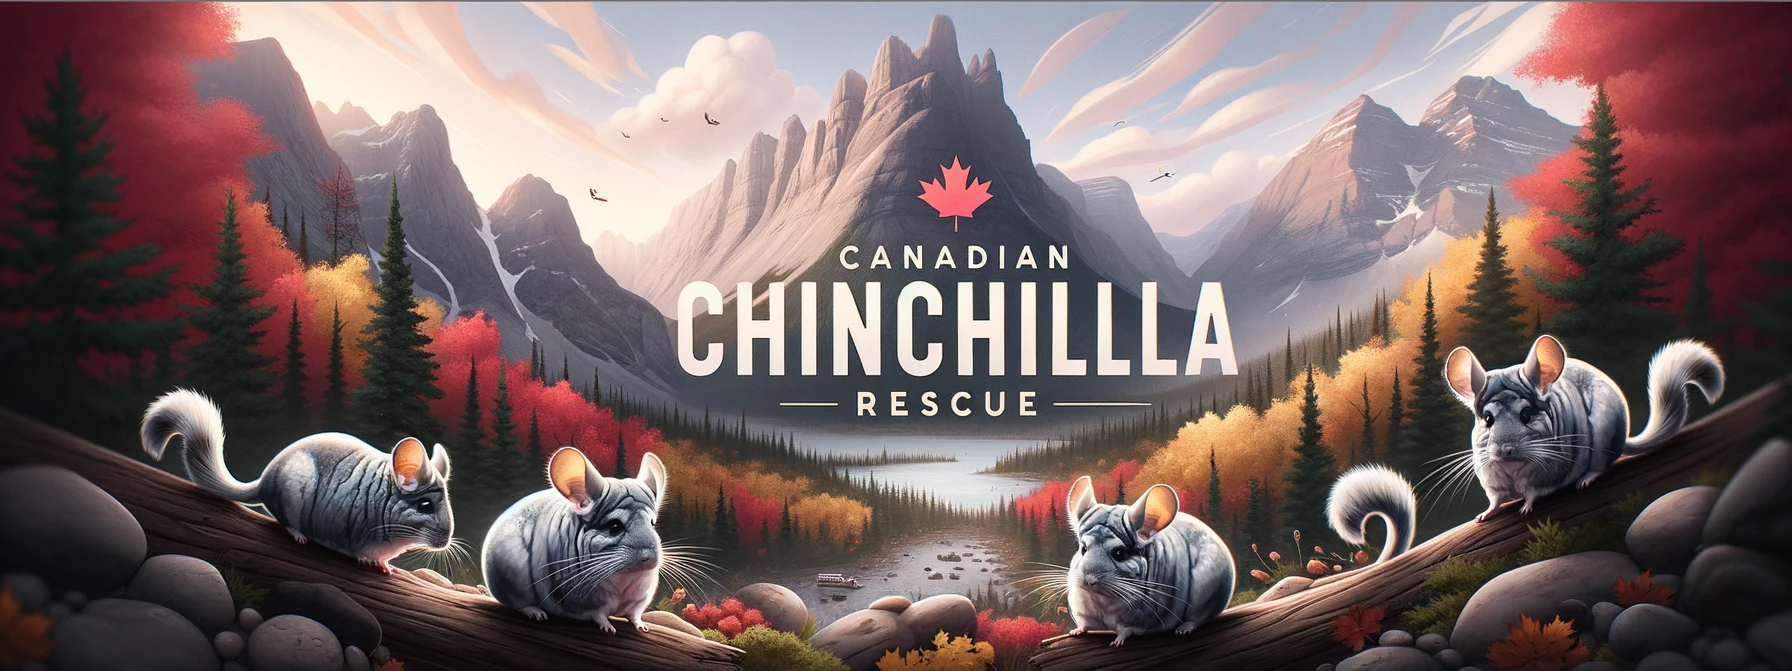
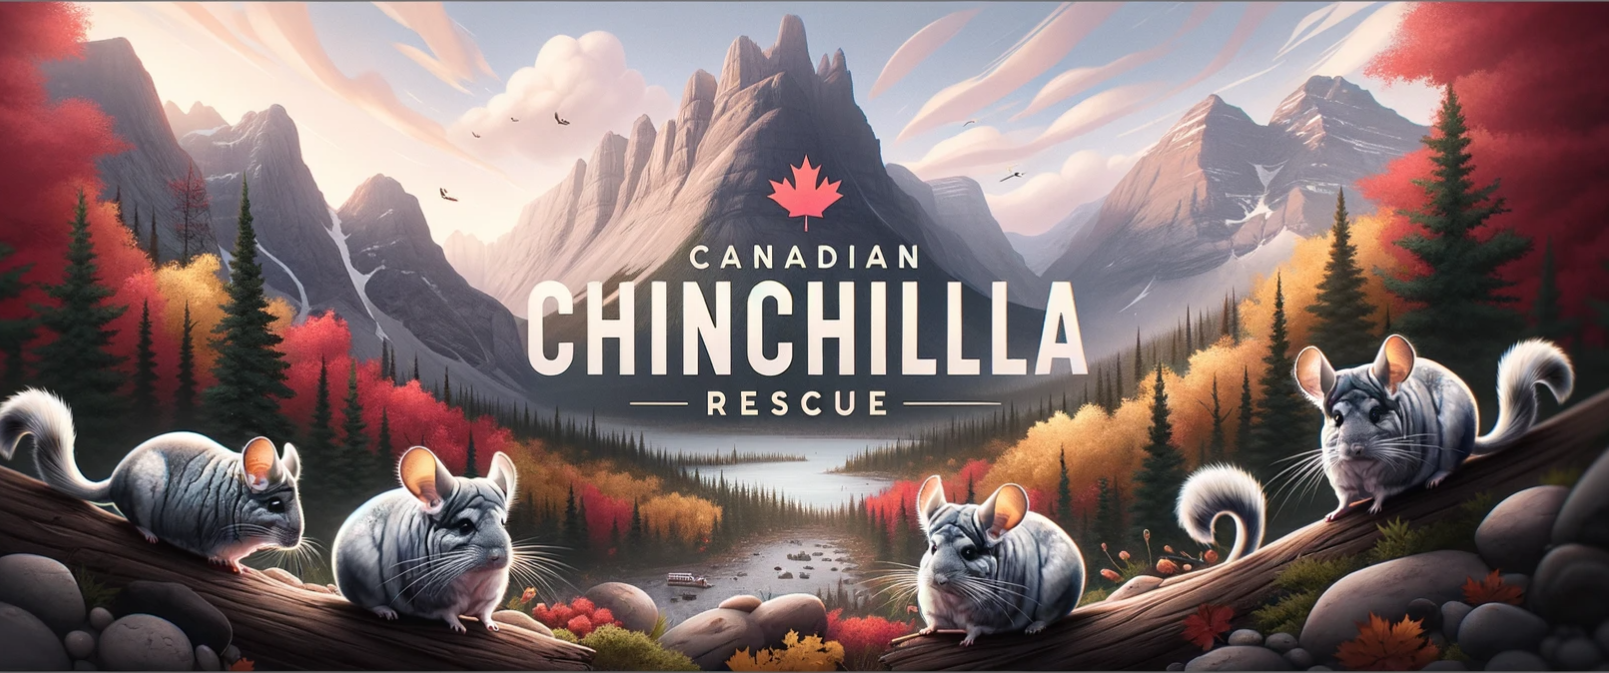
Fixed hero image centering and blog post mobile view

diff --git a/src/routes/(app)/blog/[slug]/+page.svelte b/src/routes/(app)/blog/[slug]/+page.svelte
@@ -7,12 +7,16 @@
 </script>
 
 {#if post}
-	<div class="bg-white py-16 sm:py-24">
+	<div class="bg-white py-8 lg:py-16 sm:py-24">
 		<div class="mx-auto max-w-3xl px-4 sm:px-6">
 			<div class="flex flex-col items-center">
-				<div class="flex flex-row gap-12 w-full">
+				<div class="flex flex-col lg:flex-row gap-12 w-full">
 					<!-- Image -->
-					<img class=" rounded-xl object-fit h-64 w-auto mb-8" src={post.image} alt={post.title} />
+					<img
+						class=" rounded-xl object-fit lg:h-72 h-auto w-auto lg:mb-8"
+						src={post.image}
+						alt={post.title}
+					/>
 
 					<div class="flex flex-col">
 						<!-- Date -->
@@ -41,8 +45,12 @@
 								{post.description}
 							</p>
 						</div>
+
+						<p class="font-semibold text-gray-900">
+							by {post.author.name}
+						</p>
 						<!-- Author -->
-						<div class="mt-6 flex border-t border-gray-900/5 pt-6 min-w-[16rem]">
+						<div class="mt-6 border-t border-gray-900/5 pt-6 min-w-[16rem] lg:flex hidden">
 							<div class="relative flex items-center gap-x-4">
 								<img
 									src={post.author.avatar ? post.author.avatar : '/logo.png'}

diff --git a/src/routes/(app)/+page.svelte b/src/routes/(app)/+page.svelte
@@ -1,6 +1,6 @@
 <script>
 	import TiltCard from '$lib/components/TiltCard.svelte';
-	import Hero from '$lib/img/hero.png?format=webp&h=720';
+	import Hero from '$lib/img/hero.png?format=webp&cache=false';
 	import ShopCause from '$lib/img/shop_cause.png?format=webp&w=500&h=300';
 	import ChinchillaBlog from '$lib/img/chinchilla_blog.png?format=webp&w=500&h=300';
 	import ContactChinchilla from '$lib/img/contact_chinchilla.png?format=webp&w=500&h=300';
@@ -14,9 +14,14 @@
 		content="Canadian Chinchilla Rescue is a non-profit organization that rescues chinchillas and educates owners on chinchilla care. Dedicated to the rescue, rehabilitation, and responsible placement of chinchillas in need."
 	/>
 </svelte:head>
-
-<div class=" w-full">
-	<img class="w-full object-center object-cover h-72 lg:h-full" src={Hero} alt="" />
+<div class="mx-auto max-w-7xl">
+	<div class=" w-full px-4 -ml-2-2">
+		<img
+			class="w-full object-center object-cover h-72 lg:h-full lg:rounded-lg"
+			src={Hero}
+			alt="Canadian Chinchilla Rescue"
+		/>
+	</div>
 </div>
 
 <div class="flex justify-center py-24">

diff --git a/src/lib/components/Navbar.svelte b/src/lib/components/Navbar.svelte
@@ -1,5 +1,7 @@
 <script lang="ts">
 	import { page } from '$app/stores';
+	import { cubicOut } from 'svelte/easing';
+	import { fade, fly, slide } from 'svelte/transition';
 	let menuOpen = false;
 	// check if user switched pages and close menu
 	const unsubscribe = page.subscribe(() => {
@@ -56,7 +58,7 @@
 	</nav>
 	<!-- Mobile menu, show/hide based on menu open state. -->
 	{#if menuOpen}
-		<div class="lg:hidden" role="dialog" aria-modal="true">
+		<div class="lg:hidden" role="dialog" aria-modal="true" transition:fade={{ duration: 300 }}>
 			<!-- Background backdrop, show/hide based on slide-over state. -->
 			<div class="fixed inset-0 z-10" />
 			<div
@@ -112,8 +114,8 @@
 						<div class="py-6">
 							<a
 								href="/donate"
-								class="-mx-3 block rounded-lg px-3 py-2.5 text-base font-semibold leading-7 text-gray-900 hover:bg-gray-50"
-								>Donate
+								class="-mx-3 block rounded-lg px-3 py-2.5 text-base font-semibold leading-7 text-red-400 hover:bg-gray-50"
+								>Donate <span aria-hidden="true">&rarr;</span>
 							</a>
 						</div>
 					</div>
